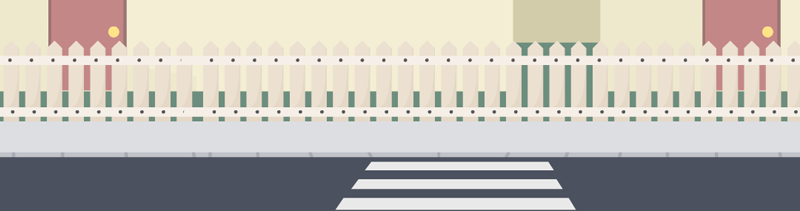
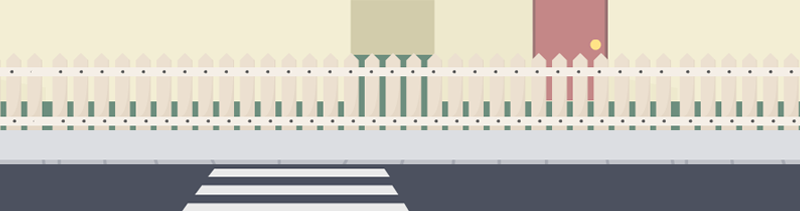
sumthin

diff --git a/minggame.py b/minggame.py
@@ -1,6 +1,8 @@
 #BACKEND IMPORTS
 from __future__ import division
 import threading
+import mingpanel
+import string
 
 #FRONTEND IMPORTS
 import pygame
@@ -46,6 +48,9 @@ class minggame:
 		self.__current = self.__level.start
 		self.__animations[self.__level.cat].play()
 
+		#ming panel
+		self.__mypanel = None
+
 		#thread stopper
 		self.__done = False
 		#game status
@@ -53,7 +58,7 @@ class minggame:
 
 		#variables for street scrolling
 		self.__x1 = 0
-		self.__x2 = screen_width
+		self.__x2 = 800
 
 		#variables for cat scrolling
 		self.__catchunk = 800//(self.__level.win-self.__level.lose+3)
@@ -119,7 +124,9 @@ class minggame:
 		self.__screen.fill(MEDYO_BLUE)
 
 		#draw upper panel
+		# if self.__x1 <= 800:
 		self.__screen.blit(self.__images['background']['ming'], (self.__x1,-30))
+		# if self.__x2 <= 800:
 		self.__screen.blit(self.__images['background']['ming'], (self.__x2,-30))
 		self.__x1-=0.6
 		self.__x2-=0.6
@@ -205,7 +212,7 @@ class minggame:
 					self.__host.send_game_update('GAME_OVER '+str(self.__host.id))
 					self.__done = True
 				else:
-					self.__host.send_game_update('CURRENT:'+str(self.__current)+' '+str(pid))		
+					self.__host.send_game_update('CURRENT:'+str(self.__current)+' '+str(pid))
 
 	#process updates received by client. CLIENT ONLY
 	def __process_updates(self):
@@ -219,7 +226,7 @@ class minggame:
 				self.__catbuffer+=self.__catchunk*(self.__current-before)
 
 				#advance to new command
-				if pid == self.__host.id:
+				if int(pid) == self.__host.id:
 					self.__reset_timer()
 
 			#win game
@@ -230,11 +237,19 @@ class minggame:
 			#lose game
 			elif update == 'GAME_OVER':
 				self.__game_over = 0
-				self.__done = True			
+				self.__done = True
+
+			#receive panels
+			elif update == 'PANELS':
+				self.__mypanel = [int(i) for i in string.split(pid, ',')]
+				print self.__mypanel
 
 	def start_game_server(self):
 		threading.Thread(target = self.__start_timer).start()
 		threading.Thread(target = self.__process_commands).start()
+		self.__panel_list = self.__host.send_panels(mingpanel.generate_panels()) 	#distribute panels to players
+		self.__mypanel = self.__panel_list[0]
+		print self.__mypanel
 
 		while not self.__done:
 			event = pygame.event.poll()

diff --git a/mingserver.py b/mingserver.py
@@ -57,29 +57,6 @@ class mingserver:
 		self.__pready[0] = False if self.__pready[0] else True
 		self.__update_players()
 
-	def start_game(self):
-		print 'Attempting to start game...'
-		if len(self.__players) == 0:
-			print 'Can\'t play with only one player'
-		elif False in self.__pready:
-			print 'Not all players are ready' 
-		else:
-			self.__playing = True
-			print 'Starting game!'
-			self.__sendmsg_toall("GAME START")
-
-	def stop_game(self, means):
-		#means could either be
-		# OVER - game over for the players
-		# KILL - server left the game unexpectedly
-		print 'Ending game...'
-		self.__playing = False
-		self.__sendmsg_toall("GAME "+means)
-
-		if means == 'KILL':
-			self.leave_room()
-
-
 	def remove_player(self, clientid, means):
 		toremove = int(clientid)
 		if toremove in self.__players:
@@ -125,6 +102,36 @@ class mingserver:
 			b = False
 
 		return p, b
+
+	def start_game(self):
+		print 'Attempting to start game...'
+		if len(self.__players) == 0:
+			print 'Can\'t play with only one player'
+		elif False in self.__pready:
+			print 'Not all players are ready' 
+		else:
+			self.__playing = True
+			print 'Starting game!'
+			self.__sendmsg_toall("GAME START")
+
+	def stop_game(self, means):
+		#means could either be
+		# OVER - game over for the players
+		# KILL - server left the game unexpectedly
+		print 'Ending game...'
+		self.__playing = False
+		self.__sendmsg_toall("GAME "+means)
+
+		if means == 'KILL':
+			self.leave_room()
+
+	def send_panels(self, panels):
+		for i, cid in enumerate(self.__players):
+			addr, connection, stopper, alias = self.__players[cid]
+
+			connection.sendMessage('GAME_UPDATE PANELS '+str(panels[i+1])[1:-1].replace(' ',''))
+
+		return panels[:len(self.__players)+1]
 
 	#add command to game queue
 	def send_game_command(self, msg, pid = 0):

diff --git a/mingpanel.py b/mingpanel.py
@@ -1,0 +1,64 @@
+import random
+
+class mingswitch:
+
+	def __init__(self, sid):
+		self.sid = sid
+
+_switches = [
+	mingswitch(0),
+	mingswitch(1),
+	mingswitch(2),
+	mingswitch(3),
+	mingswitch(4),
+	mingswitch(5),
+	mingswitch(6),
+	mingswitch(7),
+	mingswitch(8),
+	mingswitch(9),
+	mingswitch(10),
+	mingswitch(11),
+	mingswitch(12),
+	mingswitch(13),
+	mingswitch(14),
+	mingswitch(15),
+	mingswitch(16),
+	mingswitch(17),
+	mingswitch(18),
+	mingswitch(19),
+	mingswitch(20),
+	mingswitch(21),
+	mingswitch(22),
+	mingswitch(23),
+	mingswitch(24),
+	mingswitch(25),
+	mingswitch(26),
+	mingswitch(27),
+	mingswitch(28),
+	mingswitch(29),
+	mingswitch(30),
+	mingswitch(31),
+	mingswitch(32),
+	mingswitch(33),
+	mingswitch(34),
+	mingswitch(35),
+	mingswitch(36),
+	mingswitch(37),
+	mingswitch(38),
+	mingswitch(39),
+	mingswitch(40),
+	mingswitch(41),
+	mingswitch(42),
+	mingswitch(43),
+	mingswitch(44),
+	mingswitch(45),
+	mingswitch(46),
+	mingswitch(47),
+	mingswitch(48),
+	mingswitch(49)
+]
+	
+def generate_panels():
+	panels = [i for i in range(len(_switches))]
+	random.shuffle(panels)
+	return [panels[0:6], panels[6:12], panels[12:18], panels[18:24]]

diff --git a/mingming.py b/mingming.py
@@ -89,7 +89,6 @@ class mingming:
 			'room':	pygame.mixer.music.load('resources/sounds/music_waitingroom.mp3')
 			}
 
-
 	def who_you(self):
 		self.__on_display = 'whoyou'
 
@@ -152,7 +151,6 @@ class mingming:
 			else:
 				b = None
 				if ready == True:
-					# b = self.screen.blit(self.__images['room']['user_ready'], self.__room_pcoor[i])
 					self.__mingpillow.play()
 					b = self.__mingpillow.blit(self.screen, self.__room_pcoor[i])
 				else:
@@ -212,7 +210,6 @@ class mingming:
 					b = None
 					if ready == 'True':
 						self.__mingpillow.play()
-						# b = self.screen.blit(self.__images['room']['user_ready'], self.__room_pcoor[i])
 						b = self.__mingpillow.blit(self.screen, self.__room_pcoor[i])
 					else:
 						b = self.screen.blit(self.__images['room']['user_nready'], self.__room_pcoor[i])
@@ -374,9 +371,6 @@ class mingming:
 				self.create_game()
 				if event.type == MOUSEBUTTONDOWN:
 					for i, b in enumerate(self.__active_buttons):
-						# if b == None:
-							# b = Rect(self.__mingpillow.getRect())
-
 						if b.collidepoint(pygame.mouse.get_pos()):
 							#leave room
 							if i == 0:

diff --git a/mingclient.py b/mingclient.py
@@ -130,7 +130,7 @@ class mingclient:
 			#game updates
 			elif message.startswith('GAME_UPDATE'):
 				msg, pid = string.split(message[12:], ' ')
-				self.__send_game_update(msg, int(pid))
+				self.__send_game_update(msg, pid)
 
 				if msg == 'GAME_OVER':
 					self.__status = 'CLIENT_INROOM'
